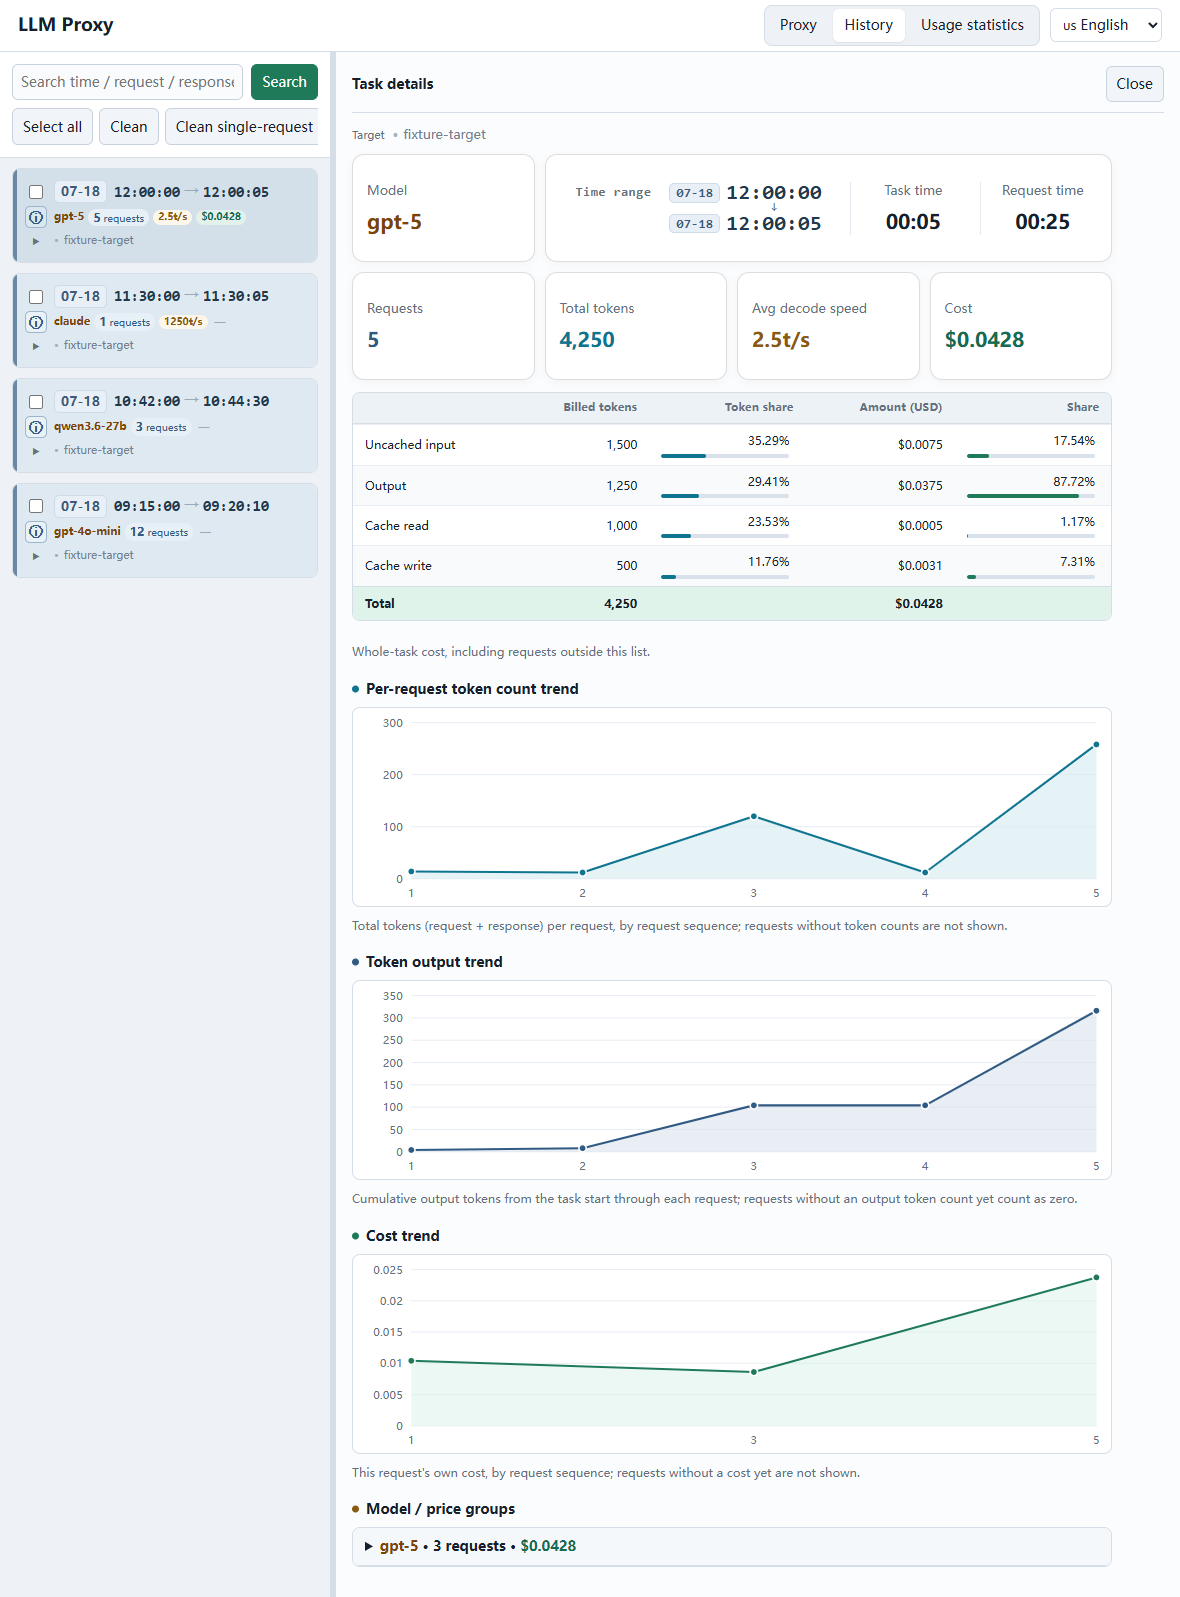
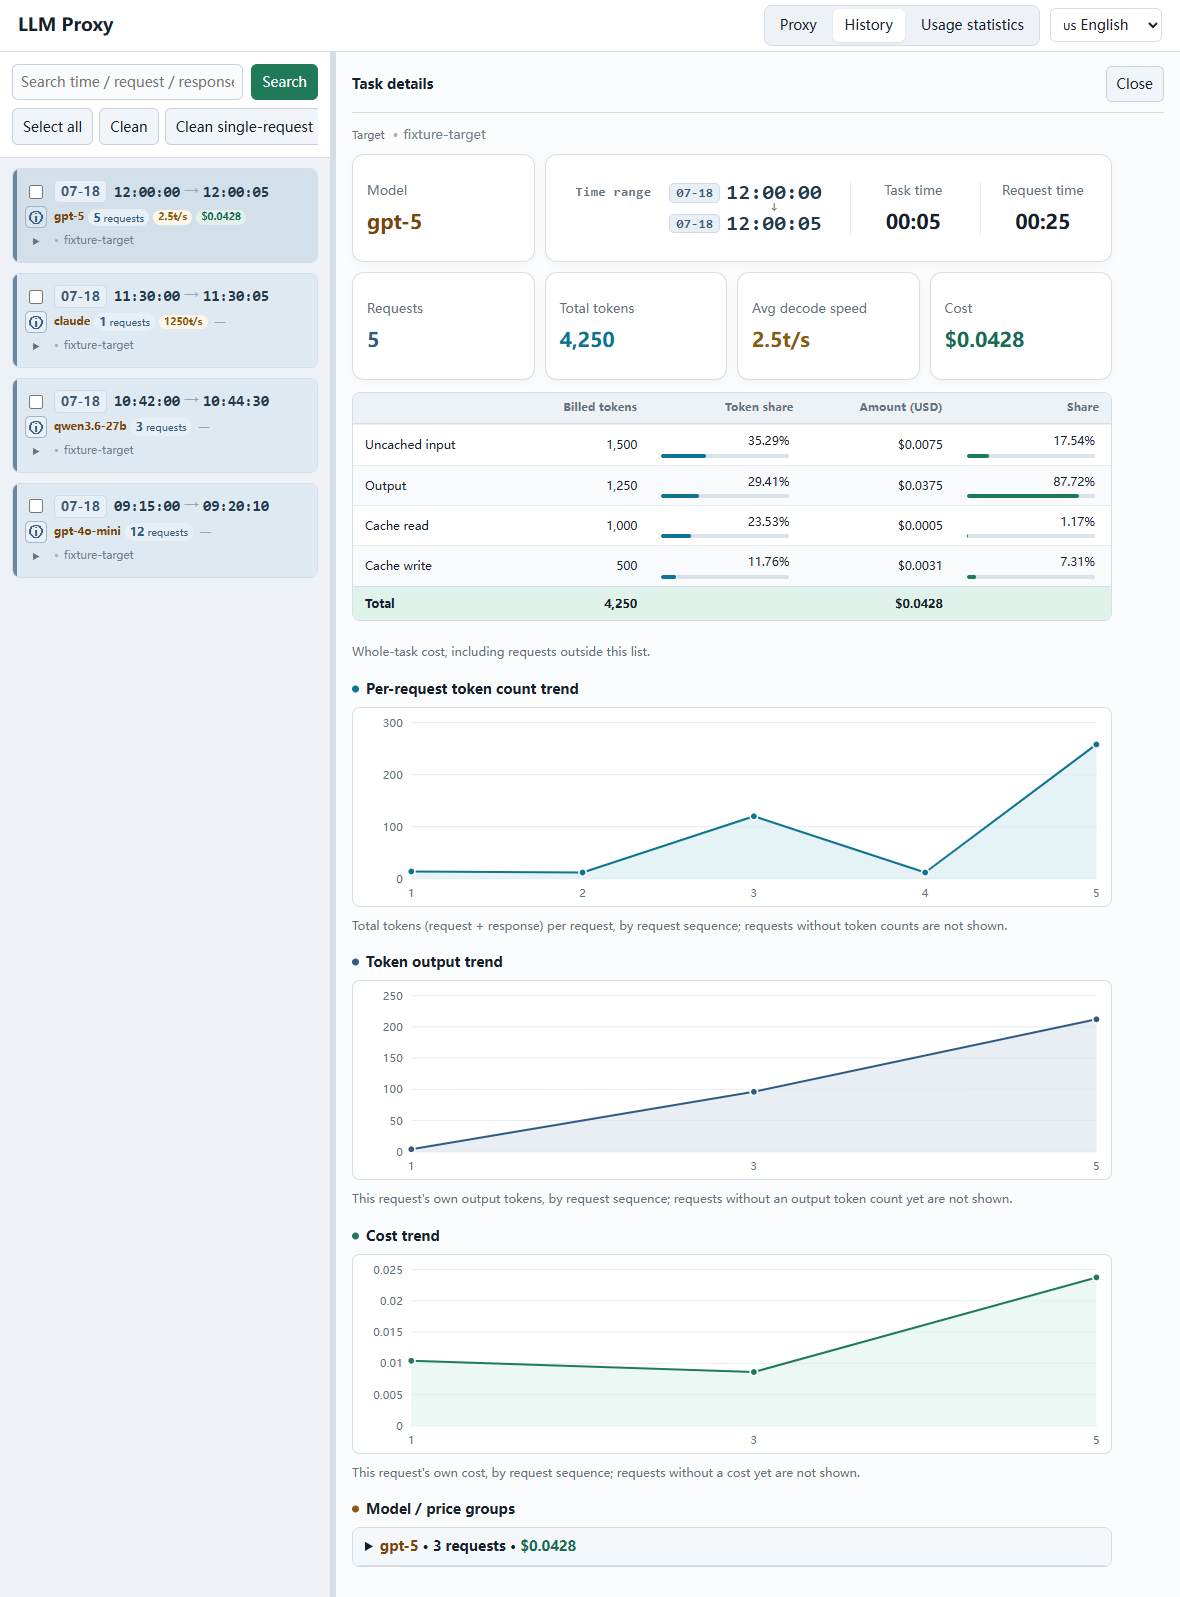
feat(ui): switch task-detail output token trend to per-request output tokens
The task-detail "Token output trend" chart now plots each request's own
output (response) token count instead of the running cumulative total from
the task start. Requests whose output token count is still unknown are
skipped, so the plotted points can be non-contiguous by request sequence.

- repository: taskOutputTokenSeries filters on response_token_count IS NOT
  NULL and returns each request's own count (no running sum).
- app.js: update the zh/en outputTokenTrendNote and the dot tooltip (drop
  the "Cumulative/累计" prefix); skip unknown-output points when plotting.
- tests: expect per-request points in the repository and log-query-service
  tests; assert the per-request output-token chart in the admin-ui test.
- baselines: regenerate doc/ui_task_detail_{cn,en}.png and update the doc
  hashes; update the README chart blurb.

Also fixes a stale assertion in the admin-ui test ("Total token trend" ->
"Per-request token count trend") left behind by the earlier title rename,
which was leaving the suite red on a clean checkout.

diff --git a/src/admin/static/app.js b/src/admin/static/app.js
@@ -145,8 +145,7 @@ const translations = {
     costTrendNote: "每个请求自身的费用（元），按请求序号；尚无费用的请求不显示。",
     costTrendNoData: "暂无费用数据",
     outputTokenTrend: "Token 输出趋势",
-    outputTokenTrendNote:
-      "累计输出 token，从任务开始到每个请求为止的输出 token 总数；尚无输出 token 数的请求按 0 计入。",
+    outputTokenTrendNote: "每个请求自身的输出 token，按请求序号；尚无输出 token 数的请求不显示。",
     outputTokenTrendNoData: "暂无输出 token 数据",
     priceGroups: "按模型 / 单价分组",
     priced: "已计价",
@@ -348,7 +347,7 @@ const translations = {
     costTrendNoData: "No cost data",
     outputTokenTrend: "Token output trend",
     outputTokenTrendNote:
-      "Cumulative output tokens from the task start through each request; requests without an output token count yet count as zero.",
+      "This request's own output tokens, by request sequence; requests without an output token count yet are not shown.",
     outputTokenTrendNoData: "No output token data",
     priceGroups: "Model / price groups",
     priced: "Priced",
@@ -1869,12 +1868,13 @@ function taskCostChartHtml(points) {
   return `<div class="cost-chart"><svg viewBox="0 0 ${width} ${height}" role="img" aria-label="${escapeHtml(t("costTrend"))}">${gridLines.join("")}${xLabels}${area}${line}${dots}</svg></div>`;
 }
 // Raw SVG line chart for the task-detail token output trend: x = request
-// sequence, y = cumulative output (response) tokens from the task start
-// through each request. Requests whose output token count is still unknown
-// keep the running total unchanged, so the line is flat between requests
-// with known output tokens; the axis always shows the real sequence numbers.
+// sequence, y = this request's own output (response) tokens. Requests whose
+// output token count is still unknown are not shown, so the x positions can
+// be non-contiguous; the axis always shows the real sequence numbers.
 function taskOutputTokenChartHtml(points) {
-  const known = (points || []).filter((point) => Number(point?.output_tokens) >= 0);
+  const known = (points || []).filter(
+    (point) => point?.output_tokens !== null && point?.output_tokens !== undefined,
+  );
   const english = state.language === "en";
   if (known.length === 0)
     return `<div class="output-token-chart-empty">${escapeHtml(t("outputTokenTrendNoData"))}</div>`;
@@ -1930,7 +1930,7 @@ function taskOutputTokenChartHtml(points) {
       const x = xFor(point.sequence);
       const y = yFor(point.output_tokens);
       const title = escapeHtml(
-        `${english ? "Request" : "请求"} #${Number(point.sequence)}: ${english ? "Cumulative " : "累计 "}${fullNumber(
+        `${english ? "Request" : "请求"} #${Number(point.sequence)}: ${fullNumber(
           point.output_tokens,
         )} ${english ? " output tokens" : " 个输出 token"}`,
       );

diff --git a/test-node/ui/admin-ui.test.ts b/test-node/ui/admin-ui.test.ts
@@ -434,10 +434,8 @@ beforeAll(async () => {
         if (groupId !== "task-one") return undefined;
         return [
           { sequence: 1, output_tokens: 4 },
-          { sequence: 2, output_tokens: 8 },
-          { sequence: 3, output_tokens: 104 },
-          { sequence: 4, output_tokens: 104 },
-          { sequence: 5, output_tokens: 316 },
+          { sequence: 3, output_tokens: 96 },
+          { sequence: 5, output_tokens: 212 },
         ];
       },
       cleanupSelectedGroups: (groupIds) => {
@@ -1421,11 +1419,12 @@ describe("admin UI history page", { timeout: UI_TEST_TIMEOUT_MS }, () => {
     await expectPage(taskBreakdown.locator("tfoot")).toContainText("4,250");
     await expectPage(taskBreakdown.locator("tfoot")).not.toContainText("%");
     await expectPage(taskBreakdown.locator("tbody tr").nth(1)).toContainText("1,250");
-    // Total token trend line chart: one dot per request with a known token total.
-    // The chart series requests fire with the panel re-open; no response wait here
-    // because waitForResponse can miss responses that already delivered in this re-render.
+    // Per-request token count trend line chart: one dot per request with a known
+    // token total (request + response). The chart series requests fire with the
+    // panel re-open; no response wait here because waitForResponse can miss
+    // responses that already delivered in this re-render.
     // The expectPage assertions below retry until the chart renders.
-    await expectPage(panel).toContainText("Total token trend");
+    await expectPage(panel).toContainText("Per-request token count trend");
     const tokenChart = panel.locator(".token-chart svg");
     await expectPage(tokenChart).toBeVisible();
     await expectPage(tokenChart.locator(".token-chart-dot")).toHaveCount(5);
@@ -1446,6 +1445,18 @@ describe("admin UI history page", { timeout: UI_TEST_TIMEOUT_MS }, () => {
     );
     await expectPage(costChart.locator(".token-chart-dot").last().locator("title")).toHaveText(
       "Request #5: $0.0238",
+    );
+    // Token output trend line chart: one dot per request with a known output
+    // token count, each carrying that request's own (non-cumulative) count.
+    await expectPage(panel).toContainText("Token output trend");
+    const outputChart = panel.locator(".output-token-chart svg");
+    await expectPage(outputChart).toBeVisible();
+    await expectPage(outputChart.locator(".token-chart-dot")).toHaveCount(3);
+    await expectPage(outputChart.locator(".token-chart-dot").first().locator("title")).toHaveText(
+      "Request #1: 4 output tokens",
+    );
+    await expectPage(outputChart.locator(".token-chart-dot").last().locator("title")).toHaveText(
+      "Request #5: 212 output tokens",
     );
     await panel.screenshot({ path: "test-results/task-pricing-panel.png" });
     await expectPage(group.locator(".log-group-body")).toHaveCount(0);

diff --git a/src/persistence/repository.ts b/src/persistence/repository.ts
@@ -104,9 +104,10 @@ export interface TaskCostSeriesPoint {
 export interface TaskOutputTokenSeriesPoint {
   readonly sequence: number;
   /**
-   * Cumulative output (response) tokens from the task start through this
-   * request; requests whose output token count is unknown (pending or
-   * usage missing) count as zero, so the series is non-decreasing.
+   * This request's own output (response) tokens. Only requests with a known
+   * output token count appear in the series, in request-sequence order;
+   * requests whose output count is still unknown (pending or usage missing)
+   * are skipped.
    */
   readonly output_tokens: number;
 }
@@ -592,26 +593,24 @@ export class TrafficRepository {
   }
 
   /**
-   * Per-request cumulative output tokens for the task-detail chart, ordered
-   * by request sequence. Each point carries the total output (response)
-   * tokens from the task start through that request; requests without a
-   * known output token count keep the running total unchanged.
+   * Per-request output tokens for the task-detail chart, ordered by request
+   * sequence. Each point carries this request's own output (response)
+   * tokens; requests without a known output token count are skipped.
    */
   taskOutputTokenSeries(taskId: string): readonly TaskOutputTokenSeriesPoint[] | undefined {
     if (this.getTask(taskId) === undefined) return undefined;
     const rows = this.#database
       .prepare(
-        "SELECT sequence, response_token_count FROM records WHERE task_id = ? ORDER BY sequence",
+        `SELECT sequence, response_token_count
+         FROM records
+         WHERE task_id = ? AND response_token_count IS NOT NULL
+         ORDER BY sequence`,
       )
-      .all(taskId) as { sequence: number; response_token_count: number | null }[];
-    let running = 0;
-    return rows.map((row) => {
-      running += row.response_token_count ?? 0;
-      return {
-        sequence: integerValue(row.sequence, 0),
-        output_tokens: running,
-      };
-    });
+      .all(taskId) as { sequence: number; response_token_count: number }[];
+    return rows.map((row) => ({
+      sequence: integerValue(row.sequence, 0),
+      output_tokens: row.response_token_count,
+    }));
   }
 
   /**

diff --git a/test-node/maintenance/log-query-service.test.ts b/test-node/maintenance/log-query-service.test.ts
@@ -372,7 +372,7 @@ describe("LogQueryService", () => {
     expect(service.getGroupTokenSeries("missing")).toBeUndefined();
   });
 
-  it("returns the per-request cumulative output-token series of a task across roots", async () => {
+  it("returns the per-request output-token series of a task across roots", async () => {
     const firstRoot = await mkdtemp(path.join(os.tmpdir(), "llm-proxy-log-query-output-a-"));
     const secondRoot = await mkdtemp(path.join(os.tmpdir(), "llm-proxy-log-query-output-b-"));
     temporaryDirectories.push(firstRoot, secondRoot);
@@ -411,8 +411,7 @@ describe("LogQueryService", () => {
     const service = new LogQueryService([firstRoot, secondRoot]);
     expect(service.getGroupOutputTokenSeries("output-series-task")).toEqual([
       { sequence: 1, output_tokens: 12 },
-      { sequence: 2, output_tokens: 12 },
-      { sequence: 3, output_tokens: 33 },
+      { sequence: 3, output_tokens: 21 },
     ]);
     expect(service.getGroupOutputTokenSeries("missing")).toBeUndefined();
   });

diff --git a/test-node/persistence/repository.test.ts b/test-node/persistence/repository.test.ts
@@ -374,7 +374,7 @@ describe("TrafficRepository pricing persistence", () => {
     repository.close();
   });
 
-  it("lists per-request cumulative output tokens by sequence, counting unknown as zero", async () => {
+  it("lists per-request output tokens by sequence, skipping unknown counts", async () => {
     const root = await mkdtemp(path.join(os.tmpdir(), "llm-proxy-repository-output-token-series-"));
     temporaryDirectories.push(root);
     const repository = new TrafficRepository(root);
@@ -410,9 +410,7 @@ describe("TrafficRepository pricing persistence", () => {
     });
     expect(repository.taskOutputTokenSeries("output-token-series-task")).toEqual([
       { sequence: 1, output_tokens: 40 },
-      { sequence: 2, output_tokens: 40 },
-      { sequence: 3, output_tokens: 40 },
-      { sequence: 4, output_tokens: 101 },
+      { sequence: 4, output_tokens: 61 },
     ]);
     expect(repository.taskOutputTokenSeries("missing")).toBeUndefined();
     repository.close();

diff --git a/docs/refactoring/ui-visual-baseline.md b/docs/refactoring/ui-visual-baseline.md
@@ -16,8 +16,8 @@
[7 lines of base64/hex data omitted]
 
 哈希复现命令：
 

diff --git a/README.md b/README.md
@@ -52,14 +52,14 @@ qwen-local => qwen3
 | 任务分组 | 将 Agent 的连续多轮请求归入任务，便于按一次工作流查看。任务卡片头部按“时间范围 / 模型与指标 / 转发地址”三行排列：日期徽标与转发地址为中性蓝灰，请求数、解码速度、费用以浅色底标签区分。 |
 | 全文搜索 | 按路径、方法、状态、目标 URL、任务 ID 或记录 ID 搜索；空格分隔的关键词同时生效。 |
 | 请求详情 | 并排查看请求和响应 JSON，支持展开、折叠、换行、格式化和复制。 |
-| 成本统计 | 按任务显示总费用、已计价/未计价请求、价格规则和 token 明细；每条请求显示其费用占比。缺少可靠用量或价格时标记为未计价，不会当作免费。点击任务头部控制列的 ⓘ 图标按钮打开“任务明细”面板查看费用，面板顶部显示任务总耗时（第一个请求到最后一个请求结束的墙钟时间）与请求总耗时（各请求耗时之和，不含请求间隔），面板内另附“Token 总量趋势”折线图（按请求序号展示每个请求的 token 总量）、“Token 输出趋势”折线图（按请求序号展示累计输出 token，未知计 0）与“费用趋势”折线图（按请求序号展示每个请求自身的费用，无费用的请求不显示）。 |
+| 成本统计 | 按任务显示总费用、已计价/未计价请求、价格规则和 token 明细；每条请求显示其费用占比。缺少可靠用量或价格时标记为未计价，不会当作免费。点击任务头部控制列的 ⓘ 图标按钮打开“任务明细”面板查看费用，面板顶部显示任务总耗时（第一个请求到最后一个请求结束的墙钟时间）与请求总耗时（各请求耗时之和，不含请求间隔），面板内另附“Token 总量趋势”折线图（按请求序号展示每个请求的 token 总量）、“Token 输出趋势”折线图（按请求序号展示每个请求自身的输出 token，尚无输出 token 数的请求不显示）与“费用趋势”折线图（按请求序号展示每个请求自身的费用，无费用的请求不显示）。 |
 | 智能总结 | 使用配置的总结模型总结单条请求，并将连续消息分成可复用的缓存阶段；已有总结的请求会显示金色星标。 |
 | 导出与清理 | 将选中的任务导出为 ZIP，或删除任务及其请求记录（支持一键清理列表中仅含单个请求的任务）。 |
 | 分页与刷新 | 大型日志目录支持分页加载和自动刷新。 |
 
 ![任务明细面板](doc/ui_task_detail_cn.png)
 
-**任务明细**面板（点击任务卡片头部控制列的 ⓘ 打开）汇总单次任务的总费用、按输入/输出/缓存分区的 token 明细与“Token 总量趋势”“Token 输出趋势”（累计输出 token）“费用趋势”（每请求自身费用）折线图，并按计费模型分组展开单价与费用占比。
+**任务明细**面板（点击任务卡片头部控制列的 ⓘ 打开）汇总单次任务的总费用、按输入/输出/缓存分区的 token 明细与“Token 总量趋势”“Token 输出趋势”（每请求自身输出 token）“费用趋势”（每请求自身费用）折线图，并按计费模型分组展开单价与费用占比。
 
 历史数据默认保存在每个日志目录的 `traffic.db` SQLite 数据库中，代理配置保存在 `logs/proxies.json`。导出的 ZIP 包含可读 Markdown、`request.json` 和 `response.json`。
 
